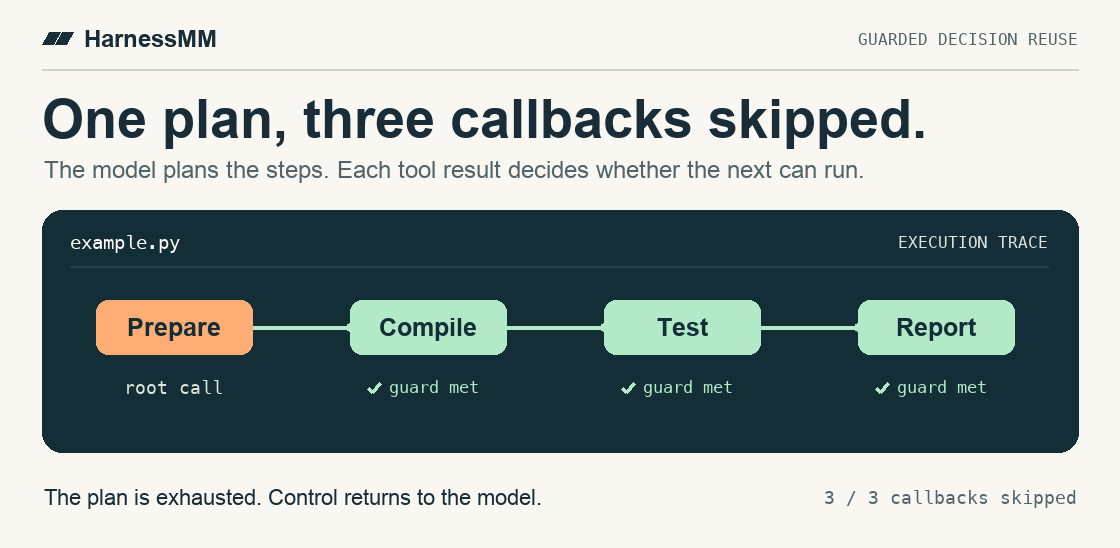
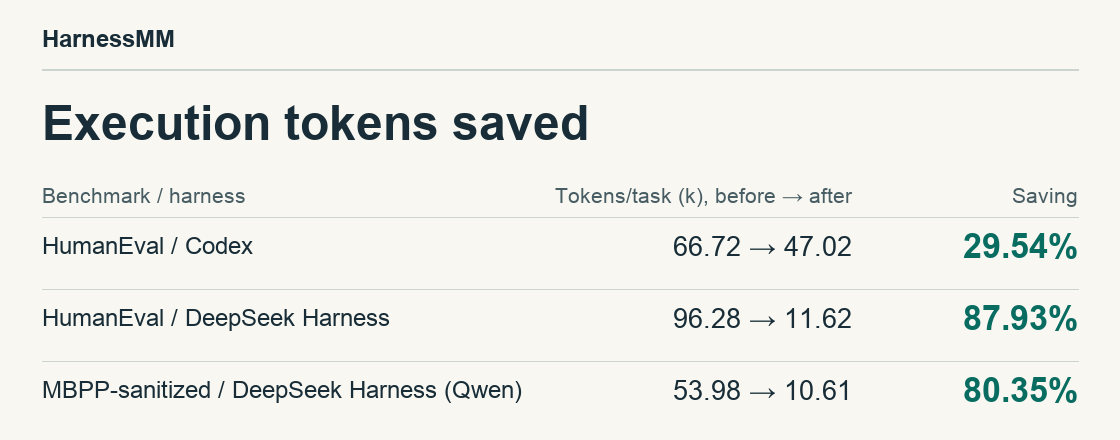
Show execution token savings in each README animation frame

diff --git a/docs/assets/readme/generate_teaser.py b/docs/assets/readme/generate_teaser.py
@@ -1,4 +1,4 @@
-"""Render the GitHub teaser and reduced-motion poster with Pillow."""
+"""Render the README token savings from the published coding comparisons."""
 from functools import lru_cache
 import json
 from pathlib import Path
@@ -6,127 +6,74 @@ from pathlib import Path
 from PIL import Image, ImageDraw, ImageFont
 
 HERE = Path(__file__).resolve().parent
-SIZE = (1120, 548)
-PAPER, INK, MUTED, RULE = "#F8F7F1", "#182D37", "#52646A", "#CED4CC"
-NAVY, PANEL, PALE = "#142E37", "#25434A", "#DDE7DE"
-MINT, ORANGE, WHITE = "#B2EAC8", "#FFAD75", "#FFFFFF"
-SANS = ("Arial.ttf", "DejaVuSans.ttf")
-BOLD = ("Arial Bold.ttf", "DejaVuSans-Bold.ttf")
-MONO = ("Menlo.ttc", "DejaVuSansMono.ttf")
+SIZE = (1120, 440)
+PAPER, INK, MUTED = "#F8F7F1", "#182D37", "#475D63"
+TEAL, BASELINE, RULE = "#096C61", "#647980", "#CCD4D0"
 
 
 @lru_cache(None)
-def font(family, size):
-    for name in family:
+def font(size, bold):
+    names = ("Arial Bold.ttf", "DejaVuSans-Bold.ttf") if bold else ("Arial.ttf", "DejaVuSans.ttf")
+    for name in names:
         try:
             return ImageFont.truetype(name, size)
         except OSError:
             continue
-    raise RuntimeError("Install Arial and Menlo, or DejaVu Sans and DejaVu Sans Mono")
+    raise RuntimeError("Install Arial or DejaVu Sans to render the figure")
 
 
-def label(draw, xy, value, size, fill=INK, family=SANS, anchor="lm"):
-    draw.text(xy, value, font=font(family, size), fill=fill, anchor=anchor)
+def label(draw, x, y, value, size, color=INK, *, bold=False, anchor="lm"):
+    draw.text((x, y), value, font=font(size, bold), fill=color, anchor=anchor)
 
 
-def mark(draw, x, y):
-    for offset in (0, 13):
-        draw.polygon([(x+offset, y+12), (x+offset+7, y),
-                      (x+offset+18, y), (x+offset+11, y+12)], fill=INK)
-
-
-def shell(section):
+def canvas():
     image = Image.new("RGB", SIZE, PAPER)
     draw = ImageDraw.Draw(image)
-    mark(draw, 42, 32)
-    label(draw, (84, 39), "HarnessMM", 24, family=BOLD)
-    label(draw, (1078, 39), section, 16, MUTED, MONO, "rm")
+    label(draw, 42, 39, "HarnessMM", 24, bold=True)
     draw.line((42, 69, 1078, 69), fill=RULE, width=2)
     return image, draw
 
 
-def check(draw, x, y, fill):
-    draw.line([(x-6, y), (x-2, y+4), (x+6, y-5)], fill=fill, width=3)
-
-
-def execution(stage, progress=1):
-    image, draw = shell("GUARDED DECISION REUSE")
-    label(draw, (42, 119), "One plan, three callbacks skipped.", 54, family=BOLD)
-    label(draw, (44, 170), "The model plans the steps. Each tool result decides whether the next can run.", 24, MUTED)
-    draw.rounded_rectangle((42, 210, 1078, 452), 20, fill=NAVY)
-    label(draw, (70, 242), "example.py", 19, WHITE, MONO)
-    label(draw, (1048, 242), "EXECUTION TRACE", 16, PALE, MONO, "rm")
-    draw.line((70, 266, 1048, 266), fill=PANEL, width=2)
-    steps = ("Prepare", "Compile", "Test", "Report")
-    centers = (174, 428, 682, 936)
-    for i in range(3):
-        start, end = centers[i]+78, centers[i+1]-78
-        draw.line((start, 327, end, 327), fill="#627C80", width=3)
-        ran = 1 if stage > i+1 else progress if stage == i+1 else 0
-        if ran:
-            head = start+(end-start)*ran
-            draw.line((start, 327, head, 327), fill=MINT, width=4)
-            draw.ellipse((head-4, 323, head+4, 331), fill=MINT)
-    for i, (x, name) in enumerate(zip(centers, steps)):
-        active = i < stage or (i == stage and progress >= .95)
-        color = (ORANGE if i == 0 else MINT) if active else PANEL
-        draw.rounded_rectangle((x-78, 300, x+78, 354), 12, fill=color)
-        label(draw, (x, 327), name, 25, NAVY if active else PALE, BOLD, "mm")
-        if i == 0:
-            label(draw, (x, 388), "root call", 18, PALE, MONO, "mm")
-        elif active:
-            check(draw, x-54, 388, MINT)
-            label(draw, (x-39, 387), "guard met", 17, MINT, MONO)
-        else:
-            label(draw, (x, 388), "planned", 17, PALE, MONO, "mm")
-    notes = [
-        "The model calls Prepare and stores the next three actions.",
-        "Prepare returned exit code 0. The harness runs Compile.",
-        "Compile returned exit code 0. The harness runs Test.",
-        "Test returned exit code 0. The harness runs Report.",
-        "The plan is exhausted. Control returns to the model.",
-    ]
-    label(draw, (44, 497), notes[stage], 22, INK)
-    count = min(3, stage) if progress >= .95 else max(0, stage-1)
-    label(draw, (1077, 498), f"{count} / 3 callbacks skipped", 18, MUTED, MONO, "rm")
+def comparison(row, maximum):
+    image, draw = canvas()
+    label(draw, 1078, 39, f'{row["benchmark"]}  /  {row["tasks"]} tasks', 23, MUTED, anchor="rm")
+    label(draw, 42, 134, f'{row["saving"]:.2f}%', 76, TEAL, bold=True)
+    label(draw, 330, 140, "fewer execution tokens", 43, bold=True)
+    label(draw, 42, 218, "Tokens/task (k)", 23, MUTED)
+    for i, (name, value, color) in enumerate(zip(
+        (row["harness"], "+ HarnessMM"), row["tokens"], (BASELINE, TEAL)
+    )):
+        y = 283 + 83 * i
+        label(draw, 42, y, name, 22)
+        end = 338 + round(630 * value / maximum)
+        draw.rectangle((338, y - 13, end, y + 13), fill=color)
+        label(draw, end + 14, y, f"{value:.2f}", 25, bold=True)
     return image
 
 
-def outcome():
-    row = next(row for row in json.loads((HERE / "results.json").read_text())["main"]
-               if (row["benchmark"], row["harness"]) == ("HumanEval", "Codex"))
-    image, draw = shell("HUMANEVAL  /  CODEX")
-    label(draw, (42, 122), f'{row["saving"]:.2f}% fewer execution tokens', 52, family=BOLD)
-    label(draw, (44, 178), f'Success held at {row["success"][0]:.2f}% across the same {row["tasks"]} test tasks.', 25, MUTED)
-    draw.rounded_rectangle((42, 210, 1078, 452), 20, fill=NAVY)
-    label(draw, (74, 247), "Tokens/task (k)", 20, PALE, MONO)
-    baseline, reduced = row["tokens"]
-    for i, (name, value, color) in enumerate(zip(("Codex", "+ HarnessMM"), (baseline, reduced), (PALE, MINT))):
-        y = 313+i*77
-        label(draw, (74, y), name, 24, WHITE, BOLD)
-        length = round(638*value/baseline)
-        draw.rounded_rectangle((296, y-14, 296+length, y+14), 5, fill=color)
-        label(draw, (314+length, y), f"{value:.2f}", 23, WHITE, MONO)
-    label(draw, (44, 497), "Complete-task input and output tokens. Offline optimization is separate.", 22, MUTED)
+def overview(rows):
+    image, draw = canvas()
+    label(draw, 42, 123, "Execution tokens saved", 48, bold=True)
+    label(draw, 42, 195, "Benchmark / harness", 21, MUTED)
+    label(draw, 852, 195, "Tokens/task (k), before → after", 21, MUTED, anchor="rm")
+    label(draw, 1078, 195, "Saving", 21, MUTED, anchor="rm")
+    for i, row in enumerate(rows):
+        y = 246 + 72 * i
+        draw.line((42, y - 29, 1078, y - 29), fill=RULE)
+        label(draw, 42, y, f'{row["benchmark"]} / {row["harness"]}', 24)
+        before, after = row["tokens"]
+        label(draw, 852, y, f"{before:.2f} → {after:.2f}", 27, anchor="rm")
+        label(draw, 1078, y, f'{row["saving"]:.2f}%', 34, TEAL, bold=True, anchor="rm")
     return image
 
 
 def render():
-    frames, durations = [], []
-    def add(image, ms):
-        frames.append(image)
-        durations.append(ms)
-    add(execution(0), 2100)
-    for stage in range(1, 4):
-        for index in range(1, 8):
-            add(execution(stage, index/8), 80)
-        add(execution(stage), 1650)
-    add(execution(4), 2500)
-    result = outcome()
-    add(result, 4300)
-    execution(4).save(HERE / "guarded-reuse.png", optimize=True)
+    rows = json.loads((HERE / "results.json").read_text())["main"]
+    maximum = max(value for row in rows for value in row["tokens"])
+    frames = [comparison(row, maximum) for row in rows]
     frames[0].save(HERE / "guarded-reuse.gif", save_all=True, append_images=frames[1:],
-                   duration=durations, loop=0, optimize=True, disposal=1)
+                   duration=3200, loop=0, optimize=True)
+    overview(rows).save(HERE / "guarded-reuse.png", optimize=True)
 
 
 if __name__ == "__main__":

diff --git a/README.md b/README.md
@@ -10,11 +10,11 @@
 <p align="center">
   <picture>
     <source media="(prefers-reduced-motion: reduce)" srcset="docs/assets/readme/guarded-reuse.png">
-    <img src="docs/assets/readme/guarded-reuse.gif" width="100%" alt="In the example, the model prepares a file and plans three follow-up actions. Each successful tool result releases the next action: compile, test, then report. The model resumes when the plan ends. On 98 HumanEval tasks, Codex with HarnessMM used 29.54% fewer execution tokens at the same 90.82% success.">
+    <img src="docs/assets/readme/guarded-reuse.gif" width="100%" alt="Execution token savings with HarnessMM: 29.54% for Codex on HumanEval, 87.93% for DeepSeek Harness on HumanEval, and 80.35% for DeepSeek Harness on MBPP-sanitized.">
   </picture>
 </p>
 
-[Run the illustrated example](examples/guarded_reuse.mjs) · [See the coding results](#codex-and-deepseek-coding-harnesses) · [Try the pi extension](pi-harnessmm/)
+[Run the guarded-reuse example](examples/guarded_reuse.mjs) · [See the coding results](#codex-and-deepseek-coding-harnesses) · [Try the pi extension](pi-harnessmm/)
 
 HarnessMM lets an agent plan several tool calls in one model turn. After each
 call, the harness reads the tool result and runs the next planned action when

diff --git a/docs/assets/readme/README.md b/docs/assets/readme/README.md
@@ -4,10 +4,11 @@
 copied without modification from `figures/harness_rsi_overview_user.png`
 in the manuscript sources. It appears in the README’s “How it works” section.
 
-The homepage animation follows `examples/guarded_reuse.mjs` and ends with the
-Codex HumanEval comparison from `results.json`. Rebuild the GIF and its
-reduced-motion PNG with `python docs/assets/readme/generate_teaser.py` using
-Pillow and either Arial and Menlo or the DejaVu Sans and Mono fonts.
+Each frame of the homepage animation shows the execution tokens per task before
+and after adding HarnessMM to a coding harness. The three comparisons use the
+published savings in `results.json` and share a bar scale. The reduced-motion
+PNG shows all three comparisons together. Rebuild both with
+`python docs/assets/readme/generate_teaser.py` using Pillow and Arial or DejaVu Sans.
 
 Run `python docs/assets/readme/generate.py` from the repository root with
 Matplotlib 3.11.2 and Pillow 13.0.0 installed. Each figure is exported as SVG
